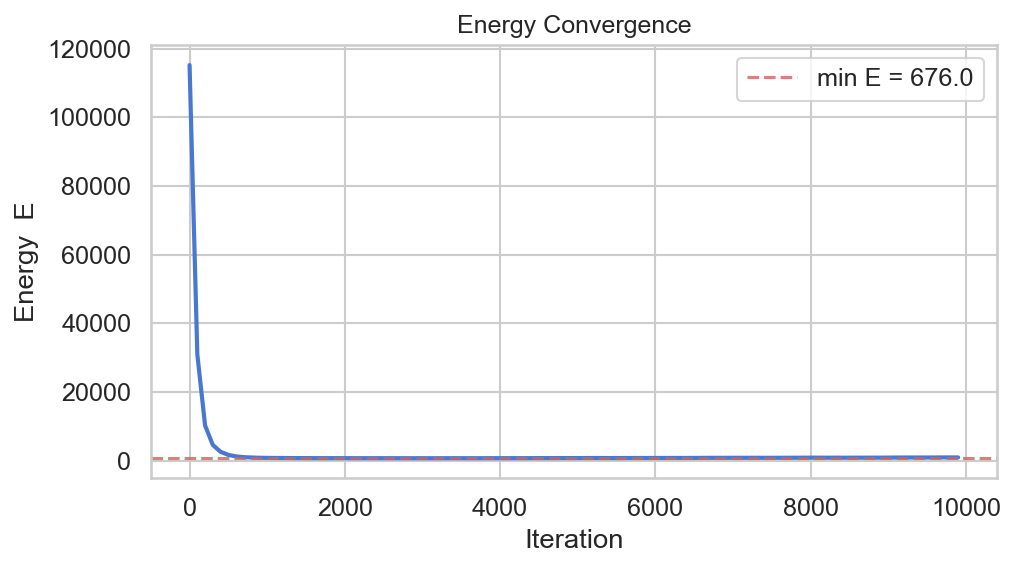
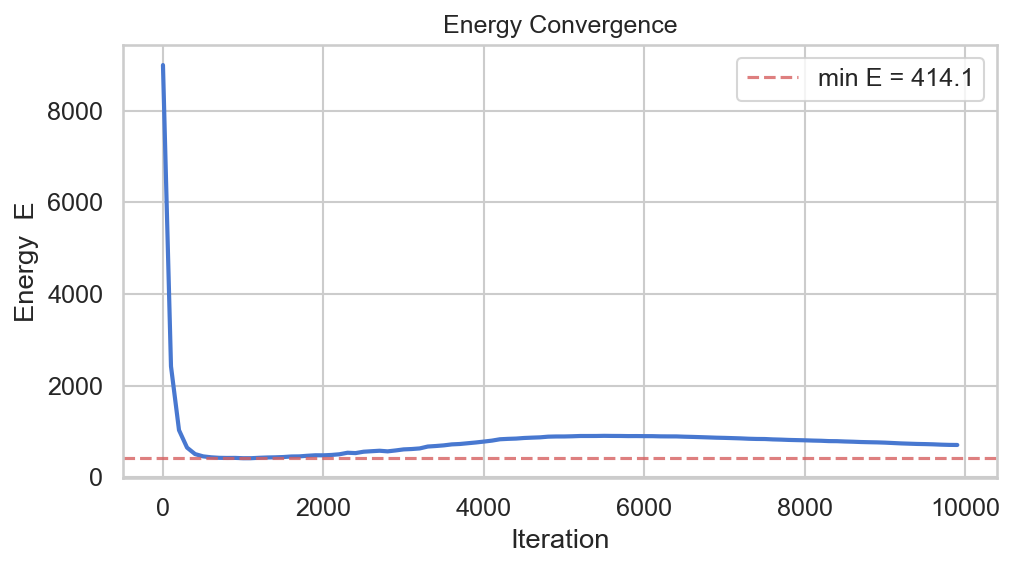
additional plots

diff --git a/config.py b/config.py
@@ -2,7 +2,7 @@
 Hyperparameters
 """
 
-NUM_CITIES = 7
+NUM_CITIES = 4  
 
 PENALTY_ROW = 500
 PENALTY_COL = 500
